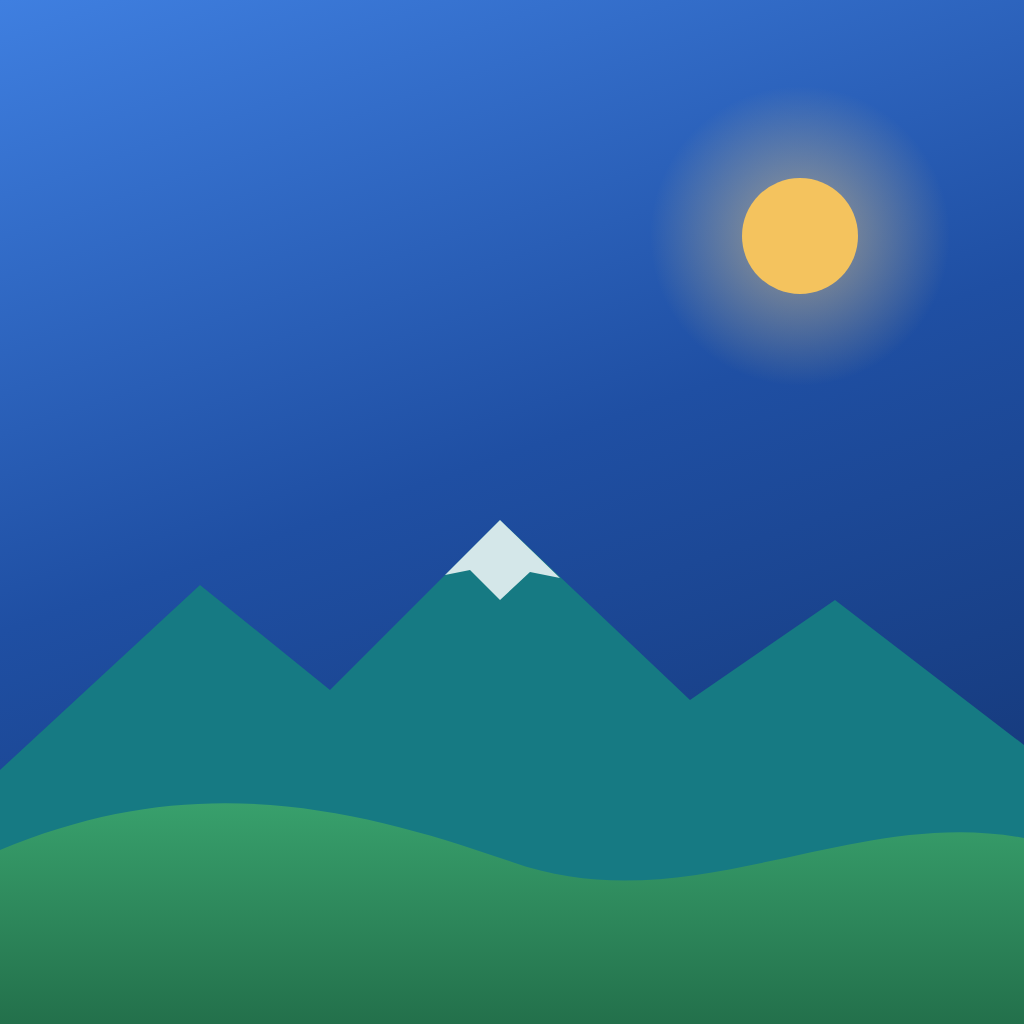
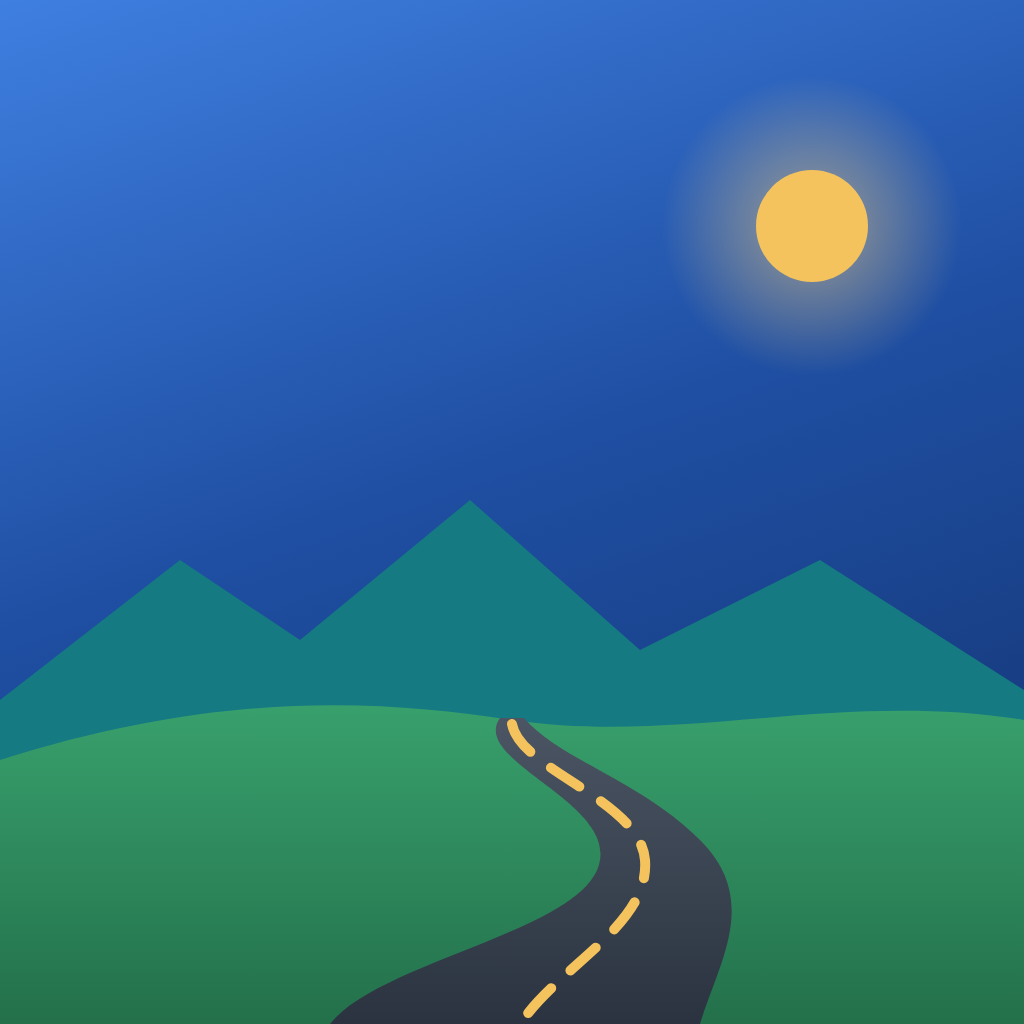
Yeni isim: Yoldayız, yeni ikon (sürüm 3.4)

Changed region(s): [[0.0, 0.4688, 1.0, 1.0], [0.7188, 0.1562, 0.8438, 0.3125]]

diff --git a/docs/index.html b/docs/index.html
@@ -1,23 +1,23 @@
 <!doctype html>
-<!-- Gezi Rehberi · © 2026 Mert Turanlıoğlu · Tüm hakları saklıdır. İzinsiz kopyalanamaz ve yayınlanamaz. -->
+<!-- Yoldayız · © 2026 Mert Turanlıoğlu · Tüm hakları saklıdır. İzinsiz kopyalanamaz ve yayınlanamaz. -->
 <html lang="tr">
 <head>
 <meta charset="utf-8">
 <meta name="viewport" content="width=device-width,initial-scale=1,viewport-fit=cover">
 <meta name="theme-color" content="#1f4fa3">
-<title>Gezi Rehberi</title>
+<title>Yoldayız · Türkiye Gezi Rehberi</title>
 <meta name="author" content="Mert Turanlıoğlu">
 <meta name="copyright" content="© 2026 Mert Turanlıoğlu. Tüm hakları saklıdır.">
-<meta name="description" content="Gezi Rehberi: Türkiye'nin 81 ilinde gezilecek yerler. Hazırlayan: Mert Turanlıoğlu.">
+<meta name="description" content="Yoldayız: Türkiye'nin 81 ilinde gezilecek yerler. Hazırlayan: Mert Turanlıoğlu.">
 <link rel="manifest" href="manifest.webmanifest">
 <link rel="icon" href="icon-192.png">
 <link rel="apple-touch-icon" href="apple-touch-icon.png">
 <meta name="apple-mobile-web-app-capable" content="yes">
 <meta name="mobile-web-app-capable" content="yes">
-<meta name="apple-mobile-web-app-title" content="Gezi Rehberi">
+<meta name="apple-mobile-web-app-title" content="Yoldayız">
 <meta name="apple-mobile-web-app-status-bar-style" content="default">
 <link rel="stylesheet" href="vendor/leaflet.css">
-<link rel="stylesheet" href="style.css?v=3.3">
+<link rel="stylesheet" href="style.css?v=3.4">
 <style>
 .splash{position:fixed;inset:0;z-index:9999;display:flex;flex-direction:column;align-items:center;justify-content:space-between;
   padding:calc(24px + env(safe-area-inset-top,0px)) 24px calc(34px + env(safe-area-inset-bottom,0px));
@@ -43,7 +43,7 @@
 <div class="splash" id="splash" aria-hidden="true">
   <div class="sp-mid">
     <img src="icon-512.png" alt="">
-    <p class="sp-app">Gezi Rehberi</p>
+    <p class="sp-app">Yoldayız</p>
     <p class="sp-tag">Türkiye'nin 81 ilinde gezilecek yerler</p>
   </div>
   <div class="sp-by">
@@ -55,7 +55,7 @@
 <header class="top">
   <button class="back" id="back" hidden aria-label="Geri">‹</button>
   <div class="titles">
-    <div class="eyebrow" id="eyebrow">Gezi Rehberi</div>
+    <div class="eyebrow" id="eyebrow">Yoldayız</div>
     <h1 id="title">Nereye gidiyorsun?</h1>
   </div>
   <button class="loc" id="locBtn" aria-label="Konumumu kullan"><i></i><span id="locText">Konum kapalı</span></button>
@@ -129,7 +129,7 @@
 </div>
 
 <script src="vendor/leaflet.js"></script>
-<script src="app.js?v=3.3"></script>
+<script src="app.js?v=3.4"></script>
 <script>
 /* Açılış ekranı ve kopya uyarısı · © 2026 Mert Turanlıoğlu */
 (function () {
@@ -145,7 +145,7 @@
   var h = location.hostname, izinli = ["me7rt.github.io", "localhost", "127.0.0.1", ""];
   if (izinli.indexOf(h) < 0) {
     var b = document.createElement("div"); b.className = "kopya";
-    b.innerHTML = 'Bu uygulama <b>Mert Turanlıoğlu</b>\'na aittir. Orijinali: <a href="https://me7rt.github.io/Gezi-Rehberi/">me7rt.github.io/Gezi-Rehberi</a>';
+    b.innerHTML = 'Bu uygulama <b>Mert Turanlıoğlu</b>\'na aittir (Yoldayız). Orijinali: <a href="https://me7rt.github.io/Gezi-Rehberi/">me7rt.github.io/Gezi-Rehberi</a>';
     document.body.appendChild(b);
   }
 })();

diff --git a/docs/app.js b/docs/app.js
@@ -1,9 +1,9 @@
-/* Gezi Rehberi · © 2026 Mert Turanlıoğlu · Tüm hakları saklıdır. İzinsiz kopyalanamaz ve yayınlanamaz.
+/* Yoldayız · © 2026 Mert Turanlıoğlu · Tüm hakları saklıdır. İzinsiz kopyalanamaz ve yayınlanamaz.
    Gezi Rehberi 3: 81 il, tüm ilçeler, canlı konum.
    Veri docs/data altında; GitHub Actions'ta Wikidata, Vikipedi ve Commons'tan hazırlanır (scripts/uret.mjs). */
 (function () {
   "use strict";
-  const SURUM = "3.3";
+  const SURUM = "3.4";
   // MapTiler harita anahtarı (boşsa OpenStreetMap kullanılır)
   const HARITA_ANAHTAR = "pI5pMuHAI4gLw3aqy35G";
 
@@ -193,7 +193,7 @@
   // ---------- ana sayfa ----------
   function showHome() {
     view = { mode: "home" }; show("home");
-    $("eyebrow").textContent = "Gezi Rehberi"; $("title").textContent = "Nereye gidiyorsun?";
+    $("eyebrow").textContent = "Yoldayız"; $("title").textContent = "Nereye gidiyorsun?";
     renderHome();
   }
   // ---------- gideceğim yerler (favoriler) ----------
@@ -237,7 +237,7 @@
   // ---------- paylaş ----------
   function paylas(p) {
     const url = `https://me7rt.github.io/Gezi-Rehberi/#/il/${p.ilS}/yer/${p.q}`;
-    const metin = `${p.ad} (${[...new Set([p.ilce, p.il].filter(Boolean))].join(", ")}) çok güzel bir yer, Gezi Rehberi'nde buldum:`;
+    const metin = `${p.ad} (${[...new Set([p.ilce, p.il].filter(Boolean))].join(", ")}) çok güzel bir yer, Yoldayız uygulamasında buldum:`;
     if (navigator.share) navigator.share({ title: p.ad, text: metin, url }).catch(() => {});
     else window.open("https://wa.me/?text=" + encodeURIComponent(metin + " " + url), "_blank");
   }

diff --git a/docs/gizlilik.html b/docs/gizlilik.html
@@ -3,7 +3,7 @@
 <head>
 <meta charset="utf-8">
 <meta name="viewport" content="width=device-width,initial-scale=1">
-<title>Gizlilik Politikası · Gezi Rehberi</title>
+<title>Gizlilik Politikası · Yoldayız</title>
 <meta name="author" content="Mert Turanlıoğlu">
 <style>
 :root{--bg:#eef2f3;--fg:#14262e;--muted:#5b6f77;--card:#fff;--a:#1f4fa3}
@@ -17,13 +17,13 @@ p,li{margin:0 0 12px}small{color:var(--muted)}a{color:var(--a)}
 </head>
 <body>
 <main>
-<a href="./">‹ Gezi Rehberi</a>
+<a href="./">‹ Yoldayız</a>
 <h1>Gizlilik Politikası</h1>
 <small>Son güncelleme: 21 Ekim 2026 · Uygulama sahibi: Mert Turanlıoğlu</small>
 
 <div class="card">
 <h2>Kısaca</h2>
-<p>Gezi Rehberi hesap açtırmaz, reklam göstermez ve seni takip etmez. Kişisel bilgilerini toplamaz, saklamaz, kimseyle paylaşmaz veya satmaz.</p>
+<p>Yoldayız hesap açtırmaz, reklam göstermez ve seni takip etmez. Kişisel bilgilerini toplamaz, saklamaz, kimseyle paylaşmaz veya satmaz.</p>
 </div>
 
 <div class="card">

diff --git a/docs/sw.js b/docs/sw.js
@@ -1,4 +1,4 @@
-/* Gezi Rehberi · © 2026 Mert Turanlıoğlu · Çevrimdışı açılış (önce internet, yoksa kayıtlı kopya) */
+/* Yoldayız · © 2026 Mert Turanlıoğlu · Çevrimdışı açılış (önce internet, yoksa kayıtlı kopya) */
 const C = "gezi-3.3";
 self.addEventListener("install", () => self.skipWaiting());
 self.addEventListener("activate", (e) => e.waitUntil(

diff --git a/README.md b/README.md
@@ -1,4 +1,4 @@
-# Gezi Rehberi
+# Yoldayız
 
 Türkiye'nin 81 ili ve tüm ilçelerinde gezilecek yerler: harita, canlı konuma göre mesafe, her yer için fotoğraf ve bilgi, tek dokunuşla Google Maps'te yol tarifi.
 
